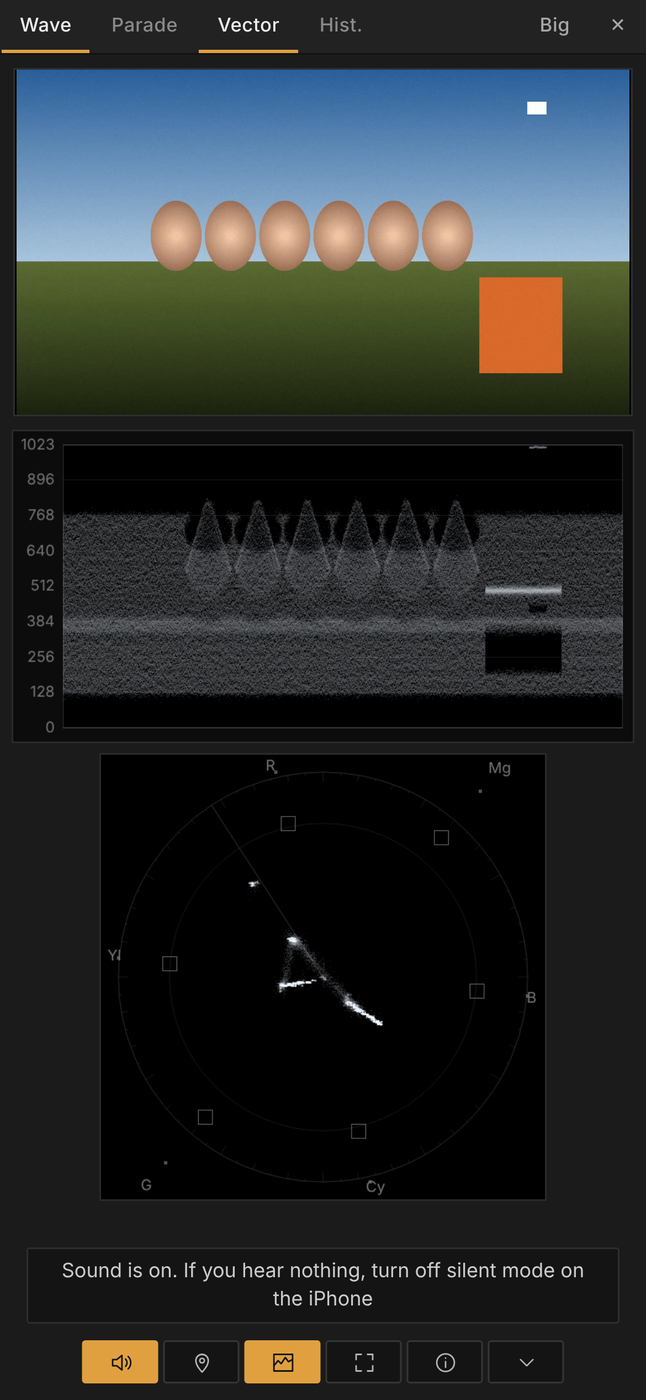
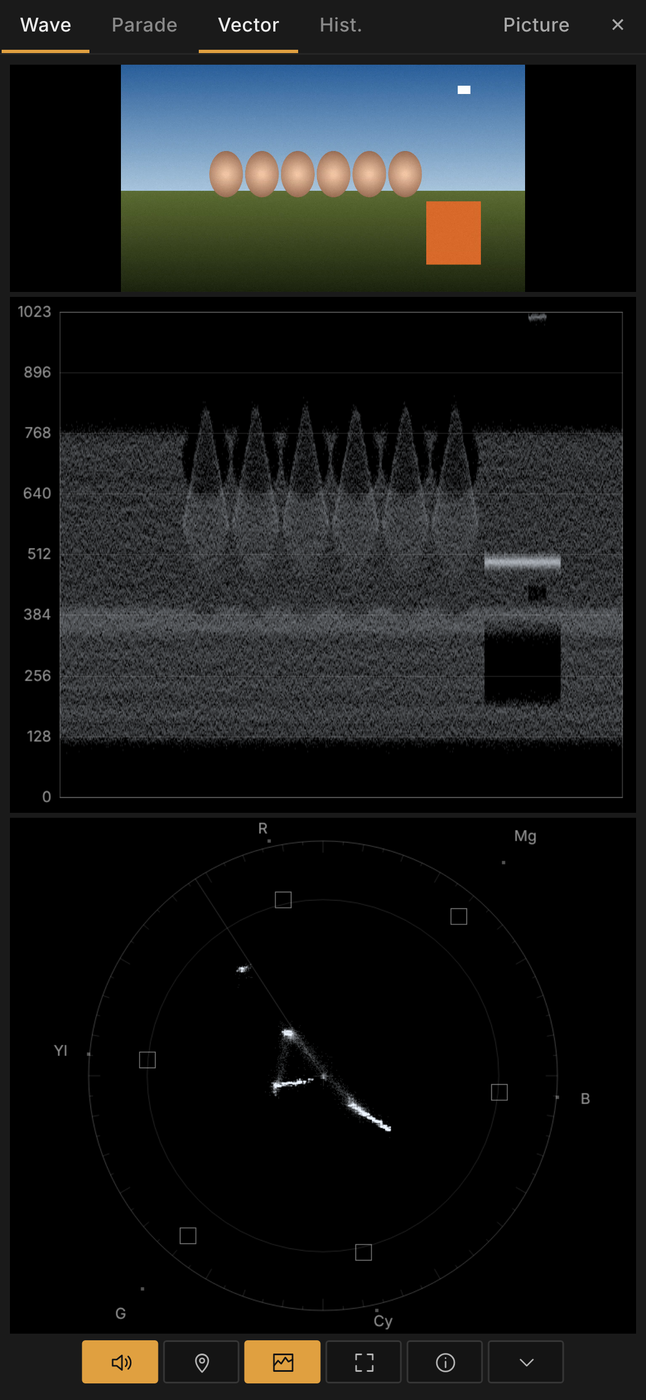
Client scopes: Resolve-like black tiles that fill the screen
- Scopes are black tiles on a 10% gray background; white 0-1023 scale and
  graticule drawn over the trace; no borders.
- The layout fills the whole area: switching a scope off lets the others
  grow. In "Big scopes" the picture is one smaller tile of the grid (a strip
  on top when the phone is upright), so there is no empty space.
- Waveform data height is capped and scaled smoothly, so tall scopes stay
  dense instead of sparse.
- README: updated scopes section and screenshots.

Claude-Session: https://claude.ai/code/session_019vrPmmPUhEFPef5My1zhAa

diff --git a/app/web/view.html b/app/web/view.html
@@ -38,11 +38,11 @@
           padding:5px 10px; border:1px solid #2e2e2e; border-radius:2px; font-size:12px; display:none; max-width:calc(100vw - 32px); width:max-content; text-align:center; box-sizing:border-box; }
 
   /* ---------- Скопы: раздельная раскладка, ничего поверх картинки ---------- */
-  #scopes { position:fixed; inset:0; z-index:5; display:none; background:#1b1b1b; box-sizing:border-box;
+  #scopes { position:fixed; inset:0; z-index:5; display:none; background:#1a1a1a; box-sizing:border-box;
             padding:env(safe-area-inset-top) env(safe-area-inset-right) 0 env(safe-area-inset-left);
             font:11px/1 -apple-system, "Segoe UI", Roboto, sans-serif; color:#9a9a9a; }
   #scopes.show { display:block; }
-  #scHead { display:flex; align-items:stretch; background:#222; border-bottom:1px solid #121212; overflow-x:auto; scrollbar-width:none; }
+  #scHead { display:flex; align-items:stretch; background:#1a1a1a; border-bottom:1px solid #262626; overflow-x:auto; scrollbar-width:none; }
   #scHead::-webkit-scrollbar { display:none; }
   #scHead button { background:transparent; border:0; border-radius:0; color:#8a8a8a; white-space:nowrap; flex:0 0 auto;
                    font:500 11.5px/1 -apple-system, "Segoe UI", Roboto, sans-serif; padding:10px 11px; margin:0 1px; letter-spacing:.02em; }
@@ -50,10 +50,12 @@
   #scHead button[data-sc].on { color:#ededed; box-shadow:inset 0 -2px 0 #e0a040; }
   #scHead .sp { flex:1; min-width:6px; }
   #scHead .tool { color:#a8a8a8; }
-  #scBody { position:absolute; display:flex; flex-wrap:wrap; gap:6px; align-content:flex-start; justify-content:center; }
-  #scBody canvas { position:static; display:block; background:#0c0c0c; border:1px solid #2a2a2a; }
-  body.scopes-on #c, body.scopes-on #lv { inset:auto; z-index:6; width:var(--picW); height:calc(var(--picW) * 9 / 16); left:var(--picL); top:var(--picT);
-                                          border:1px solid #2e2e2e; box-sizing:border-box; background:#000; }
+  #scBody { position:absolute; display:flex; flex-direction:column; gap:3px; }
+  #scBody .row { display:flex; gap:3px; flex:1 1 0; min-height:0; }
+  #scBody .pic { background:#000; min-width:0; }
+  #scBody canvas { position:static; display:block; background:#000; flex:1 1 0; min-width:0; width:100%; height:100%; }
+  body.scopes-on #c, body.scopes-on #lv { inset:auto; z-index:6; width:var(--picW); height:var(--picH); left:var(--picL); top:var(--picT);
+                                          border:0; box-sizing:border-box; background:#000; }
 </style>
 </head>
 <body>
@@ -521,10 +523,11 @@ const Scopes = (() => {
     const W = Math.max(40, Math.round(v.cv.clientWidth * dpr)), H = Math.max(20, Math.round(v.cv.clientHeight * dpr));
     if (v.cv.width !== W || v.cv.height !== H) { v.cv.width = W; v.cv.height = H; }
     const wave = v.kind === 'wave' || v.kind === 'parade';
-    v.dpr = dpr; v.gx = wave ? Math.round(30 * dpr) : 0; v.pad = wave ? Math.round(8 * dpr) : v.kind === 'hist' ? Math.round(14 * dpr) : 0;
+    v.dpr = dpr; v.gx = wave ? Math.round(30 * dpr) : 0; v.pad = wave ? Math.round(9 * dpr) : v.kind === 'hist' ? Math.round(14 * dpr) : 0;
     let w, h;
-    if (v.kind === 'vector') { w = h = Math.min(W, H, 720); }
-    else { w = Math.min(1200, W - v.gx - (wave ? Math.round(6 * dpr) : 0)); h = Math.min(600, H - 2 * v.pad); }
+    if (v.kind === 'vector') { w = h = Math.min(W, H, 900) - Math.round(4 * dpr); }
+    // по высоте не больше ~320 строк: выборка 432 строки, выше след становится редким — дальше плавное растяжение, как в Resolve
+    else { w = Math.min(1400, W - v.gx - Math.round((wave ? 8 : 20) * dpr)); h = Math.min(wave ? 320 : 400, H - 2 * v.pad); }
     if (w !== v.w || h !== v.h) { v.w = v.data.width = w; v.h = v.data.height = h; v.img = v.dctx.createImageData(w, h); }
     return v;
   }
@@ -532,44 +535,68 @@ const Scopes = (() => {
   // ---- раскладка: картинка и скопы не перекрываются ----
   function layout() {
     if (!st.open) return;
-    body.innerHTML = '';
     const list = ORDER.filter(k => st.on[k]);
-    for (const k of list) { if (!views[k]) mk(k); body.appendChild(views[k].cv); }
+    for (const k of list) if (!views[k]) mk(k);
     const narrow = window.innerWidth < 560;
     for (const b of panel.querySelectorAll('[data-sc]')) {
       b.classList.toggle('on', !!st.on[b.dataset.sc]);
       const t = (narrow ? b.dataset.short : b.dataset.full).split('|'); b.textContent = L(t[0], t[1] || t[0]);
     }
     $('scBig').textContent = narrow ? (st.big ? L('Картинка', 'Picture') : L('Крупно', 'Big')) : (st.big ? L('Картинка крупно', 'Big picture') : L('Скопы крупно', 'Big scopes'));
-    const bar = $('bar'), W = window.innerWidth, top = $('scHead').getBoundingClientRect().bottom + 8;
-    const bottom = bar.classList.contains('hidden') ? 8 : bar.getBoundingClientRect().height + 16;
-    const H = window.innerHeight - top - bottom, land = W > H * 1.15, m = 8;
-    let picW, picL, picT = top, ax, ay = top, aw, ah;
-    if (land) {
-      const share = st.big ? 0.3 : 0.64;                     // доля ширины под картинку
-      picW = Math.min((W - 3 * m) * share, H * 16 / 9);
-      if (st.big) { picL = W - m - picW; ax = m; } else { picL = m; ax = picL + picW + m; }
-      aw = W - picW - 3 * m; ah = H;
-      if (!st.big) picT = top + Math.max(0, (H - picW * 9 / 16) / 2);   // картинка по центру по высоте
-    } else {
-      picW = st.big ? Math.min(W - 2 * m, W * 0.62) : W - 2 * m;
-      picL = (W - picW) / 2; ax = m; aw = W - 2 * m; ay = top + picW * 9 / 16 + m; ah = H - picW * 9 / 16 - m;
-    }
-    const bs = document.body.style;
-    bs.setProperty('--picW', picW + 'px'); bs.setProperty('--picL', picL + 'px'); bs.setProperty('--picT', picT + 'px');
+    const bar = $('bar'), W = window.innerWidth, top = $('scHead').getBoundingClientRect().bottom + 6;
+    const bottom = bar.classList.contains('hidden') ? 6 : bar.getBoundingClientRect().height + 14;
+    const H = window.innerHeight - top - bottom, land = W > H * 1.15, m = 6, gap = 3;
+    const bs = document.body.style, setPic = (l, t, w, h) => { bs.setProperty('--picL', l + 'px'); bs.setProperty('--picT', t + 'px'); bs.setProperty('--picW', w + 'px'); bs.setProperty('--picH', (h || w * 9 / 16) + 'px'); };
+    let ax = m, ay = top, aw = W - 2 * m, ah = H, items = list.slice();
+    if (!st.big) {
+      // «Картинка крупно»: картинка ~2/3 ширины (сверху во всю ширину, если телефон вертикально), скопы рядом
+      if (land) {
+        const picW = Math.min((W - 3 * m) * 0.64, H * 16 / 9);
+        setPic(m, top, picW, H);                             // колонка во всю высоту, картинка по центру на чёрном
+        ax = m + picW + gap; aw = W - picW - m - gap - m;
+      } else {
+        const picW = W - 2 * m; setPic(m, top, picW);
+        ay = top + picW * 9 / 16 + gap; ah = H - picW * 9 / 16 - gap;
+      }
+    } else if (!land) {
+      // вертикально: картинка — полоса во всю ширину сверху (~18% высоты), скопы под ней
+      const ph = Math.min(H * 0.18, (W - 2 * m) * 9 / 16);
+      setPic(m, top, W - 2 * m, ph);
+      ay = top + ph + gap; ah = H - ph - gap;
+    } else items = null;                                    // горизонтально: картинка — одна из ячеек сетки (меньше остальных)
     Object.assign(body.style, { left: ax + 'px', top: ay + 'px', width: aw + 'px', height: ah + 'px' });
-    // сетка: перебираем число столбцов и берём ту, где скопы крупнее всего
-    const gap = 6; let best = null;
-    for (let cols = 1; cols <= list.length; cols++) {
-      const rows = Math.ceil(list.length / cols), cw = (aw - gap * (cols - 1)) / cols, ch = (ah - gap * (rows - 1)) / rows;
-      const area = list.reduce((a, k) => { const w = Math.min(cw, ch * ASPECT[k]); return a + w * w / ASPECT[k]; }, 0);
-      if (!best || area > best.area) best = { area, cw, ch };
+    // Ячейки заполняют всю область без пустот. Перебираем число столбцов и берём раскладку, где скопам
+    // достаётся самая полезная площадь (waveform хорош от 1,2:1 до 3,5:1, вектороскоп — квадрат)
+    const GROW = { pic: 0.62 };
+    const useful = (k, cw, ch) => k === 'pic' ? 0 : k === 'vector' ? Math.min(cw, ch) ** 2 : Math.min(cw, ch * 3.5) * Math.min(ch, cw / 1.2);
+    const big = st.big && land;
+    const arrange = cols => { const it = !big ? list : (() => { const a = list.slice(); a.splice(Math.min(cols - 1, a.length), 0, 'pic'); return a; })();
+      const rows = []; for (let i = 0; i < it.length; i += cols) rows.push(it.slice(i, i + cols)); return rows; };
+    let best = null;
+    for (let cols = 1; cols <= list.length + 1; cols++) {
+      const rows = arrange(cols), ch = (ah - gap * (rows.length - 1)) / rows.length;
+      let score = 0, picOk = true;
+      for (const row of rows) {
+        const tot = row.reduce((a, k) => a + (GROW[k] || 1), 0), free = aw - gap * (row.length - 1);
+        for (const k of row) { const cw = free * (GROW[k] || 1) / tot; score += useful(k, cw, ch);
+          if (k === 'pic' && Math.min(cw, ch * 16 / 9) < Math.min(W, H * 16 / 9) * 0.22) picOk = false; }   // картинка не меньше ~1/4 экрана
+      }
+      if (!picOk) score *= 0.3;
+      if (!best || score > best.score) best = { score, rows };
     }
-    for (const k of list) {
-      const w = Math.floor(Math.min(best.cw, best.ch * ASPECT[k]));
-      views[k].cv.style.width = w + 'px'; views[k].cv.style.height = Math.floor(w / ASPECT[k]) + 'px';
+    body.innerHTML = '';
+    let picCell = null;
+    for (const r of best.rows) {
+      const row = document.createElement('div'); row.className = 'row';
+      for (const k of r) {
+        if (k === 'pic') { picCell = document.createElement('div'); picCell.className = 'pic'; picCell.style.flex = GROW.pic + ' 1 0'; row.appendChild(picCell); }
+        else row.appendChild(views[k].cv);
+      }
+      body.appendChild(row);
     }
-    body.style.alignContent = land && !st.big ? 'center' : 'flex-start';
+    if (picCell) {                                          // картинка вписывается в свою ячейку по центру
+      const r = picCell.getBoundingClientRect(); setPic(r.left, r.top, r.width, r.height);
+    }
     dirty = true;
   }
   function show(open) {
@@ -654,20 +681,21 @@ const Scopes = (() => {
   }
 
   // ---- вывод с сеткой в духе Resolve: тонкие серые линии, шкала 0–1023 через 128 ----
-  const GRID = 'rgba(255,255,255,.09)', GRID_MAIN = 'rgba(255,255,255,.17)', TXT = '#767676';
+  const GRID = 'rgba(255,255,255,.14)', GRID_MAIN = 'rgba(255,255,255,.26)', TXT = 'rgba(255,255,255,.6)';
   function label(c, t, x, y, dpr, align, color) { c.font = `${9 * dpr}px -apple-system, "Segoe UI", Roboto, sans-serif`; c.fillStyle = color || TXT; c.textAlign = align || 'left'; c.textBaseline = 'middle'; c.fillText(t, x, y); }
   const crisp = (x) => Math.round(x) + .5;
   function draw(v) {
     const c = v.cv.getContext('2d'), W = v.cv.width, H = v.cv.height;
-    c.fillStyle = '#0c0c0c'; c.fillRect(0, 0, W, H);
+    c.fillStyle = '#000'; c.fillRect(0, 0, W, H);
     c.imageSmoothingEnabled = true; c.imageSmoothingQuality = 'high';
     return c;
   }
   function gridWave(v, parade) {
     const c = draw(v), W = v.cv.width, H = v.cv.height, dpr = v.dpr, gx = v.gx, pad = v.pad;
-    c.drawImage(v.data, gx, pad, v.w, v.h);
-    const y0 = pad, y1 = pad + v.h - 1, x1 = gx + v.w;
-    const every = v.h / dpr > 140 ? 128 : 256;
+    const dw = W - gx - Math.round(8 * dpr), dh = H - 2 * pad;
+    c.drawImage(v.data, gx, pad, dw, dh);
+    const y0 = pad, y1 = pad + dh - 1, x1 = gx + dw, sx = dw / v.w;
+    const every = dh / dpr > 140 ? 128 : 256;
     c.lineWidth = 1;
     for (let lv10 = 0; lv10 <= 1024; lv10 += 128) {
       const val = Math.min(1023, lv10), y = crisp(y1 - val / 1023 * (y1 - y0));
@@ -676,13 +704,13 @@ const Scopes = (() => {
       if (lv10 % every === 0 || val === 1023) label(c, val, gx - 5 * dpr, y, dpr, 'right');
     }
     if (parade) {
-      const cols = ['#c86464', '#64b464', '#6487c8'];
+      const cols = ['#e07070', '#70c070', '#7095e0'];
       ['R', 'G', 'B'].forEach((t, i) => {
-        const xa = gx + i * (v.pw + v.gap);
-        c.strokeStyle = GRID_MAIN; c.strokeRect(crisp(xa), crisp(y0), Math.round(v.pw) - 1, Math.round(y1 - y0));
-        label(c, t, xa + v.pw - 4 * dpr, y0 + 7 * dpr, dpr, 'right', cols[i]);
+        const xa = gx + i * (v.pw + v.gap) * sx, pw = v.pw * sx;
+        c.strokeStyle = GRID_MAIN; c.strokeRect(crisp(xa), crisp(y0), Math.round(pw) - 1, Math.round(y1 - y0));
+        label(c, t, xa + pw - 4 * dpr, y0 + 7 * dpr, dpr, 'right', cols[i]);
       });
-    } else { c.strokeStyle = GRID_MAIN; c.strokeRect(crisp(gx), crisp(y0), v.w - 1, Math.round(y1 - y0)); }
+    } else { c.strokeStyle = GRID_MAIN; c.strokeRect(crisp(gx), crisp(y0), Math.round(dw) - 1, Math.round(y1 - y0)); }
   }
   function gridVector(v) {
     const c = draw(v), W = v.cv.width, H = v.cv.height, dpr = v.dpr;
@@ -704,7 +732,7 @@ const Scopes = (() => {
     const T = [['R', 255, 0, 0], ['Mg', 255, 0, 255], ['B', 0, 0, 255], ['Cy', 0, 255, 255], ['G', 0, 255, 0], ['Yl', 255, 255, 0]];
     for (const [t, R, G, B] of T) {
       const [cb, cr] = cbcr(R * .75, G * .75, B * .75), x = cx + cb * k, y = cy - cr * k, bs = Math.max(6, Math.round(8 * s));
-      c.strokeStyle = 'rgba(255,255,255,.38)'; c.strokeRect(crisp(x - bs / 2), crisp(y - bs / 2), bs, bs);
+      c.strokeStyle = 'rgba(255,255,255,.5)'; c.strokeRect(crisp(x - bs / 2), crisp(y - bs / 2), bs, bs);
       const [cb1, cr1] = cbcr(R, G, B); c.fillStyle = 'rgba(255,255,255,.32)'; c.fillRect(Math.round(cx + cb1 * k) - dpr, Math.round(cy - cr1 * k) - dpr, 2 * dpr, 2 * dpr);
       const lx = cx + cb1 * k * 1.12, ly = cy - cr1 * k * 1.12;
       label(c, t, Math.min(W - 8 * dpr, Math.max(8 * dpr, lx)), Math.min(H - 7 * dpr, Math.max(7 * dpr, ly)), dpr, 'center');

diff --git a/README.md b/README.md
@@ -168,22 +168,22 @@ The page follows the language of the client's phone (English or Russian). With t
 
 The client can open **waveform, RGB parade, vectorscope and histogram** right on the phone — the **Scopes** tile in the bottom bar. You decide whether clients get them: **Quality → Client scopes → Allowed / Off** (switching off closes them on every phone at once).
 
-Scopes never cover the picture. When they open, the picture moves aside and shrinks, and the scopes get their own dark area. Two layouts, one tap apart:
+Scopes never cover the picture. When they open, the picture moves aside and the screen is split into black tiles on a 10% gray background — no empty space. Two layouts, one tap apart:
 
 | Big picture | Big scopes |
 |---|---|
-| <img src="docs/img/scopes-corner.png" width="420" alt="Picture on the left, waveform, parade and vectorscope in a column on the right"> | <img src="docs/img/scopes-big.png" width="420" alt="Waveform, parade and vectorscope large, picture small on the right"> |
+| <img src="docs/img/scopes-corner.png" width="420" alt="Picture on the left, waveform, parade and vectorscope in a column on the right"> | <img src="docs/img/scopes-big.png" width="420" alt="Waveform, parade and vectorscope large, picture as one small tile"> |
 
-- **Big picture** — the picture keeps about two thirds of the screen, the scopes line up next to it (below it when the phone is upright).
-- **Big scopes** — the scopes take the screen, the picture becomes a small window. Markers can still be placed on it.
-- Tabs at the top switch each scope on and off; the layout arranges whatever is on so every scope is as large as possible.
-- The look follows Resolve: 0–1023 scale every 128, thin gray graticule, neutral trace; the vectorscope has 75% color-bar targets, 100% dots and the skin-tone line.
+- **Big picture** — the picture keeps about two thirds of the screen, the scopes stack next to it (below it when the phone is upright).
+- **Big scopes** — the scopes take the screen and the picture becomes one smaller tile (a strip on top when upright). Markers can still be placed on it.
+- Tabs at the top switch each scope on and off; the remaining scopes grow to fill the freed space.
+- The look follows Resolve: black scope area, white 0–1023 scale every 128, thin graticule over the trace; the vectorscope has 75% color-bar targets, 100% dots and the skin-tone line.
 
-<p align="center"><img src="docs/img/scopes-big-portrait.png" width="300" alt="Scopes with the phone upright: picture on top, waveform and vectorscope below"></p>
+<p align="center"><img src="docs/img/scopes-big-portrait.png" width="300" alt="Big scopes with the phone upright: picture strip on top, waveform and vectorscope below"></p>
 
 **What the scopes show, honestly.** They are computed on the phone from **the picture that arrived** — 8-bit, after H.264 — from a 768×432 copy of the frame, up to 10 times a second (less often on a slow phone). So they describe what the client actually receives, not Resolve's internal 32-bit image:
 
-- levels, balance and saturation agree with the source: in the automated test (75% color bars + gray ramp, both paths) bar levels on the waveform are off by at most 2.5 of 255 at the smallest scope size and vectorscope traces sit within 2 px of the targets;
+- levels, balance and saturation agree with the source: in the automated test (75% color bars + gray ramp, both paths) bar levels on the waveform are off by at most 1 of 255 and vectorscope traces sit within 2 px of the targets;
 - tiny isolated highlights may be averaged away by the downscaled copy;
 - the trace is spread evenly inside each 8-bit step, like a continuous signal in Resolve, so it doesn't break into horizontal lines; the position of the trace doesn't change;
 - for grading decisions use Resolve's own scopes; the client scopes are for talking about the same picture with the same tools.
